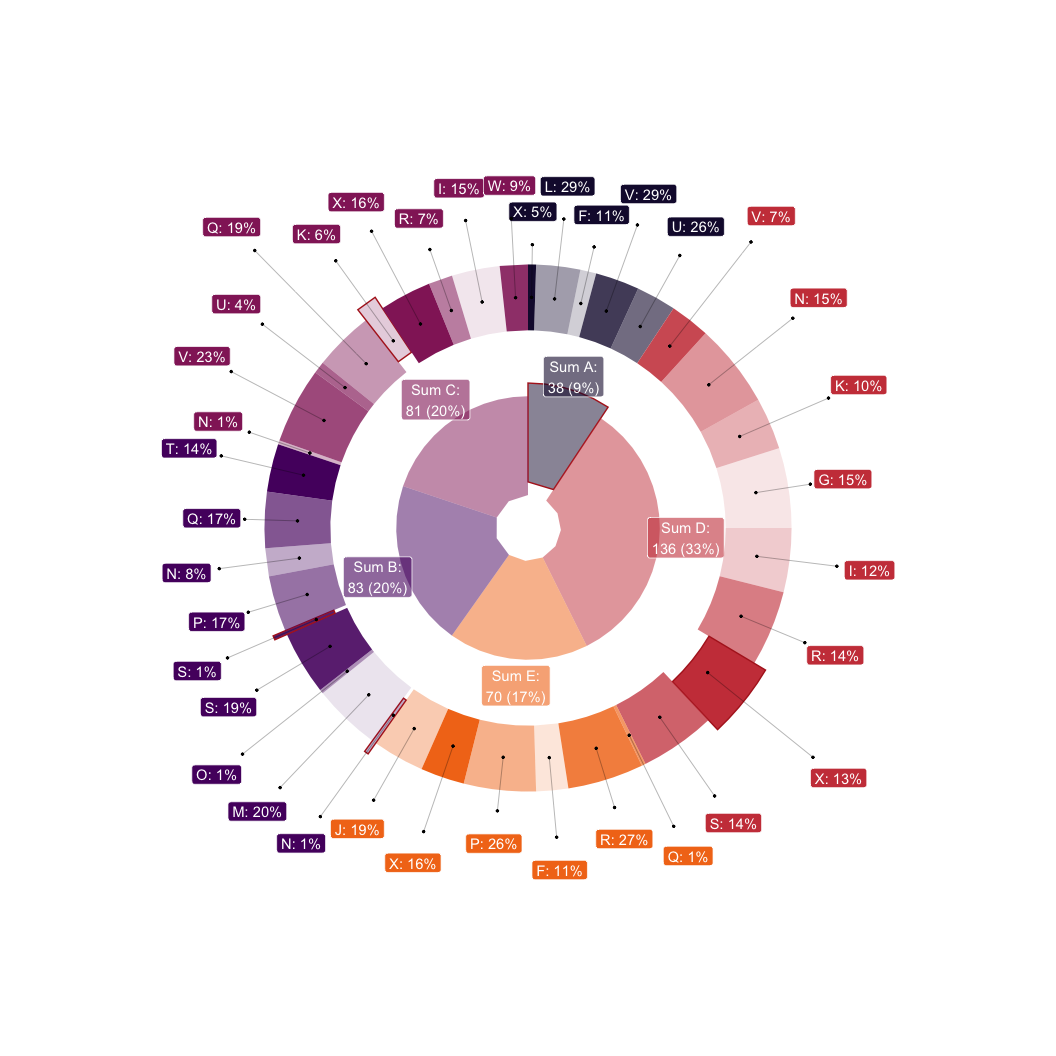
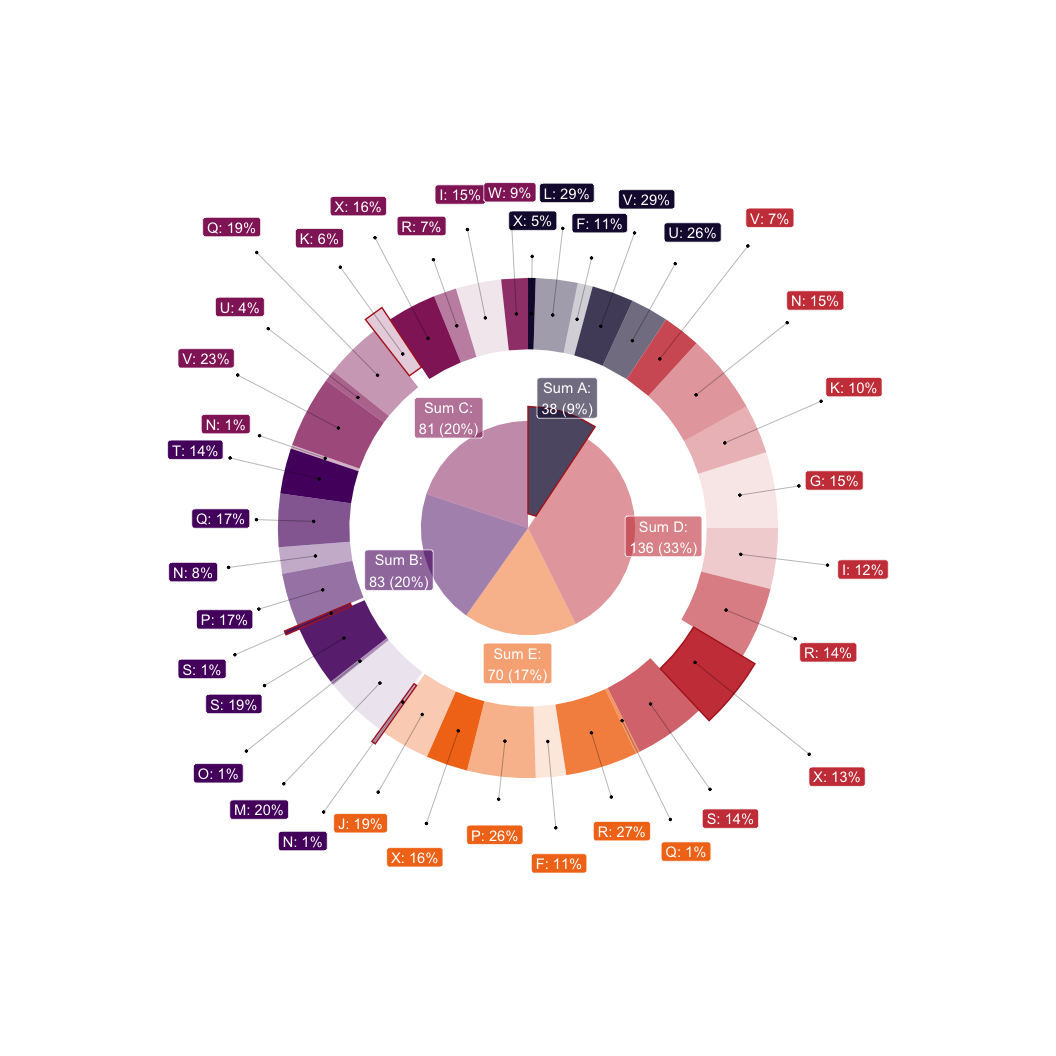
adjust hl_col behaviour

diff --git a/README.md b/README.md
@@ -58,7 +58,7 @@ df <- dplyr::tibble(
  highlight_ext = sample(c(FALSE,TRUE), n, TRUE, c(.9, .1))) |>
  dplyr::mutate(highlight_int = dplyr::if_else(lvl1 == "A",TRUE,FALSE))
 
-# Doubled donut with advanced labelling 
+# Doubled donut with advanced labeling 
 dplyr::group_by(df, lvl1, lvl2, highlight_ext, highlight_int) |>
   dplyr::summarise(value = sum(value), .groups = "drop") |>
   # Pack values effectively 
@@ -74,7 +74,7 @@ dplyr::group_by(df, lvl1, lvl2, highlight_ext, highlight_int) |>
                  layout = tv(thinner = TRUE)) +
   geom_pin(size=.5, linewidth=.1, show.legend = FALSE, cut = .25,
            layout = tv(thinner = TRUE)) +
-  # Additional appereance settings
+  # Additional appearance settings
   scale_fill_viridis_d(option = "inferno", begin = .1, end = .7) +
   theme_void() + 
   theme(legend.position = "none")  + 

diff --git a/NEWS.md b/NEWS.md
@@ -3,6 +3,7 @@
 * Initial CRAN submission
 * GDP Real Life Example published
 * Add `opacity` as addition to `alpha` aesthetic for `geom_donut_ext`
+* Adjust `hl_col` parameter behavior complementary to generic `colour`
 
 # donutsk 0.1.0 
 
